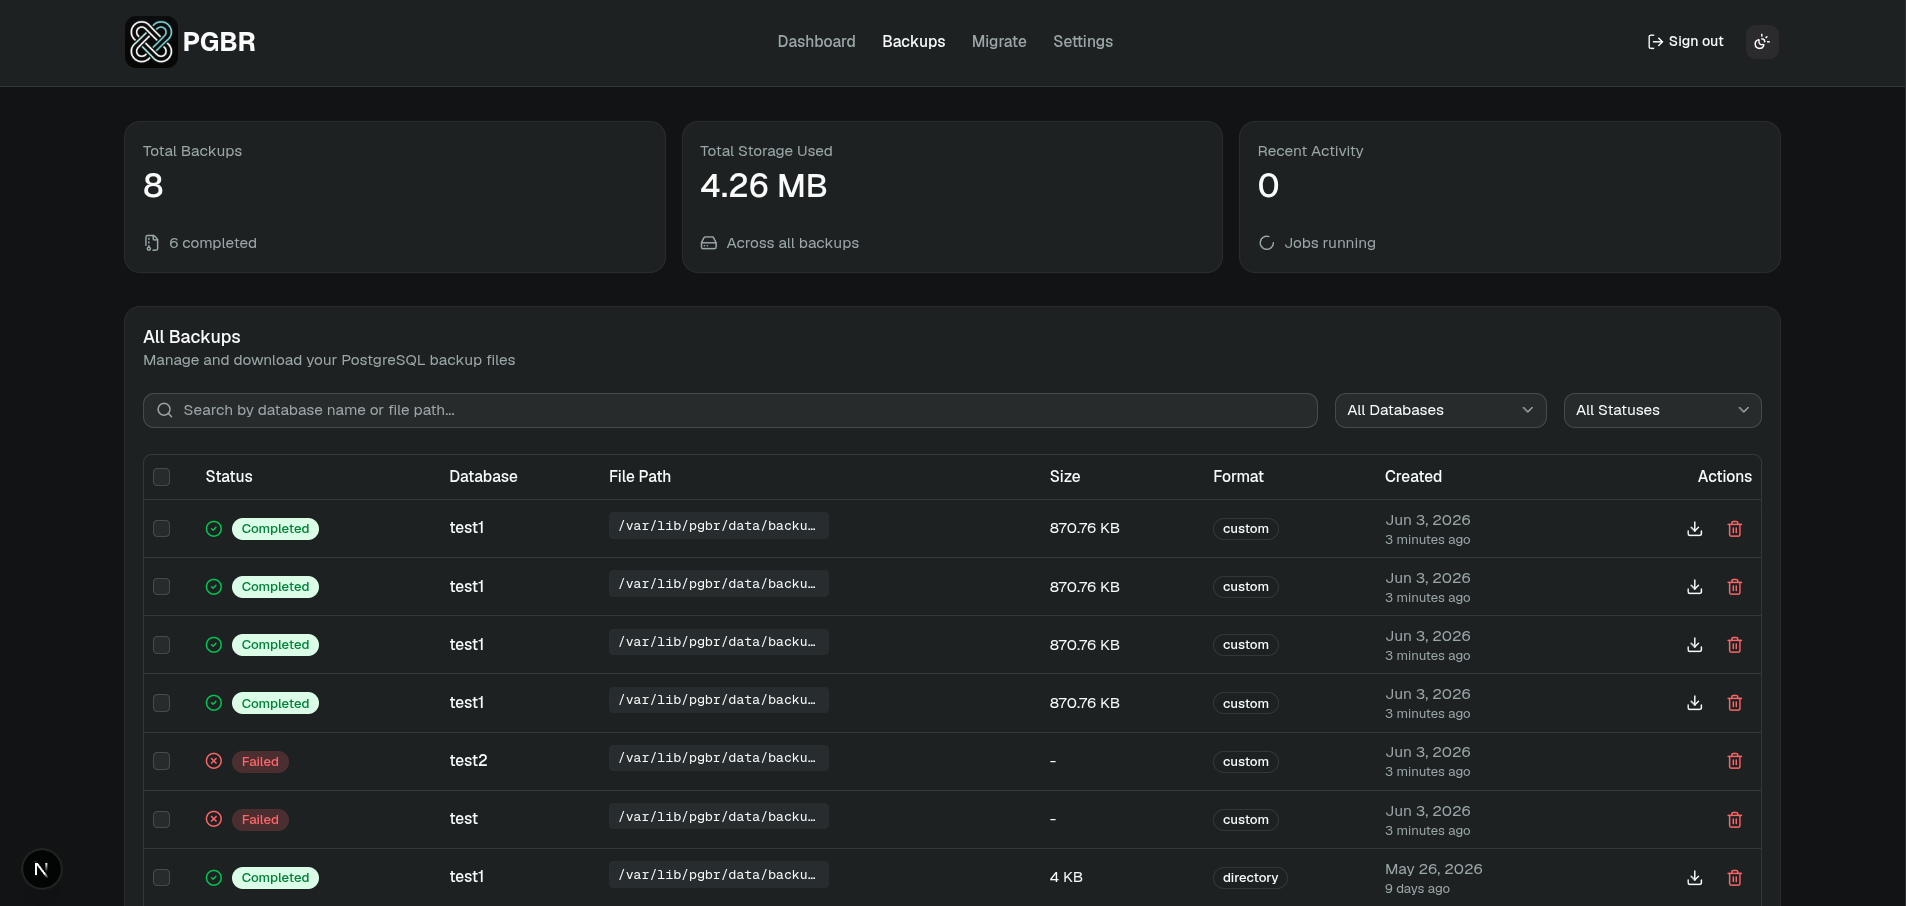
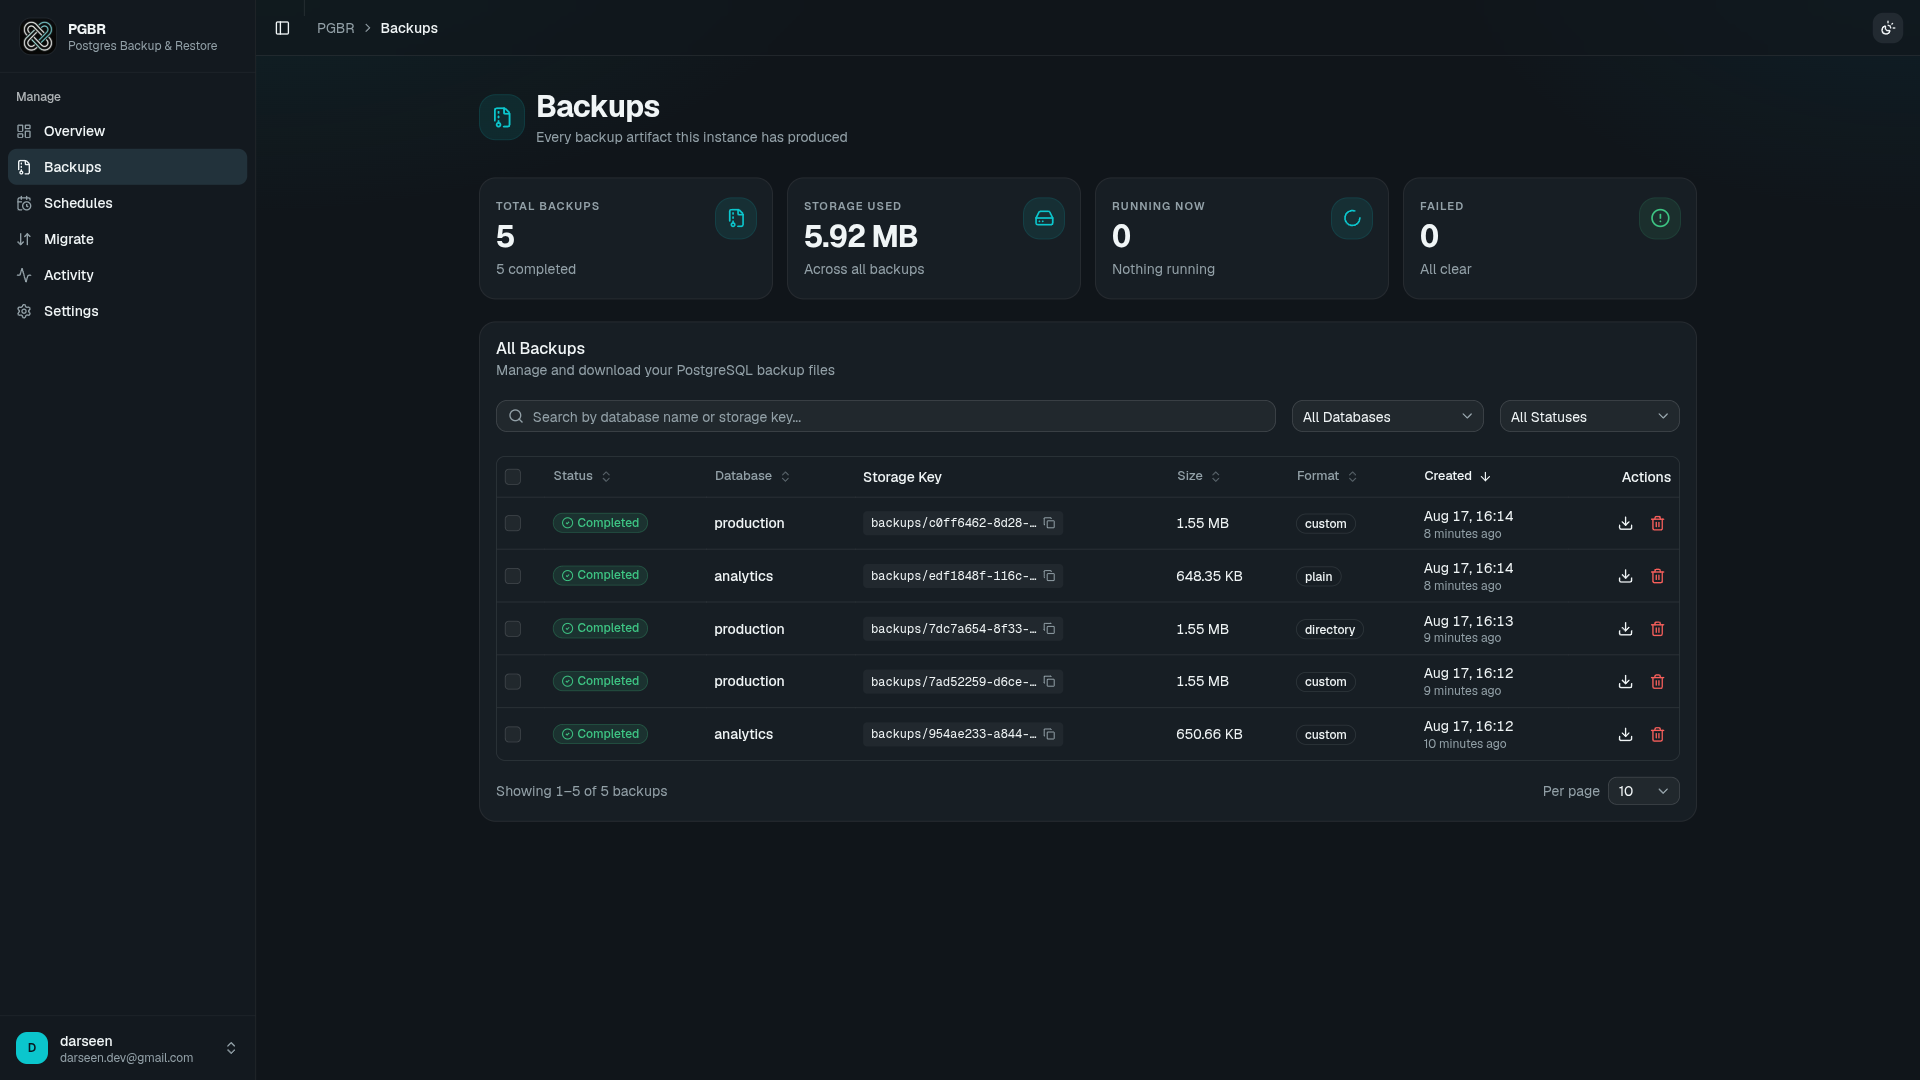
docs: refresh the screenshots and add the schedules page
Recapture the dashboard, backups, and migrate shots against the restyled
UI, and add one for the schedules page, which the feature list mentioned
but nothing showed.

diff --git a/README.md b/README.md
@@ -152,6 +152,11 @@ Here is a look at the pgbr interface.
 </div>
 
 <div align="center">
+  <h3> Backup Schedules </h3>
+  <img src="./.github/images/schedules.png" alt="Backup Schedules" width="100%"/>
+</div>
+
+<div align="center">
   <h3> Migration Tool </h3>
   <img src="./.github/images/migrate.png" alt="Migration Tool" width="100%"/>
 </div>
